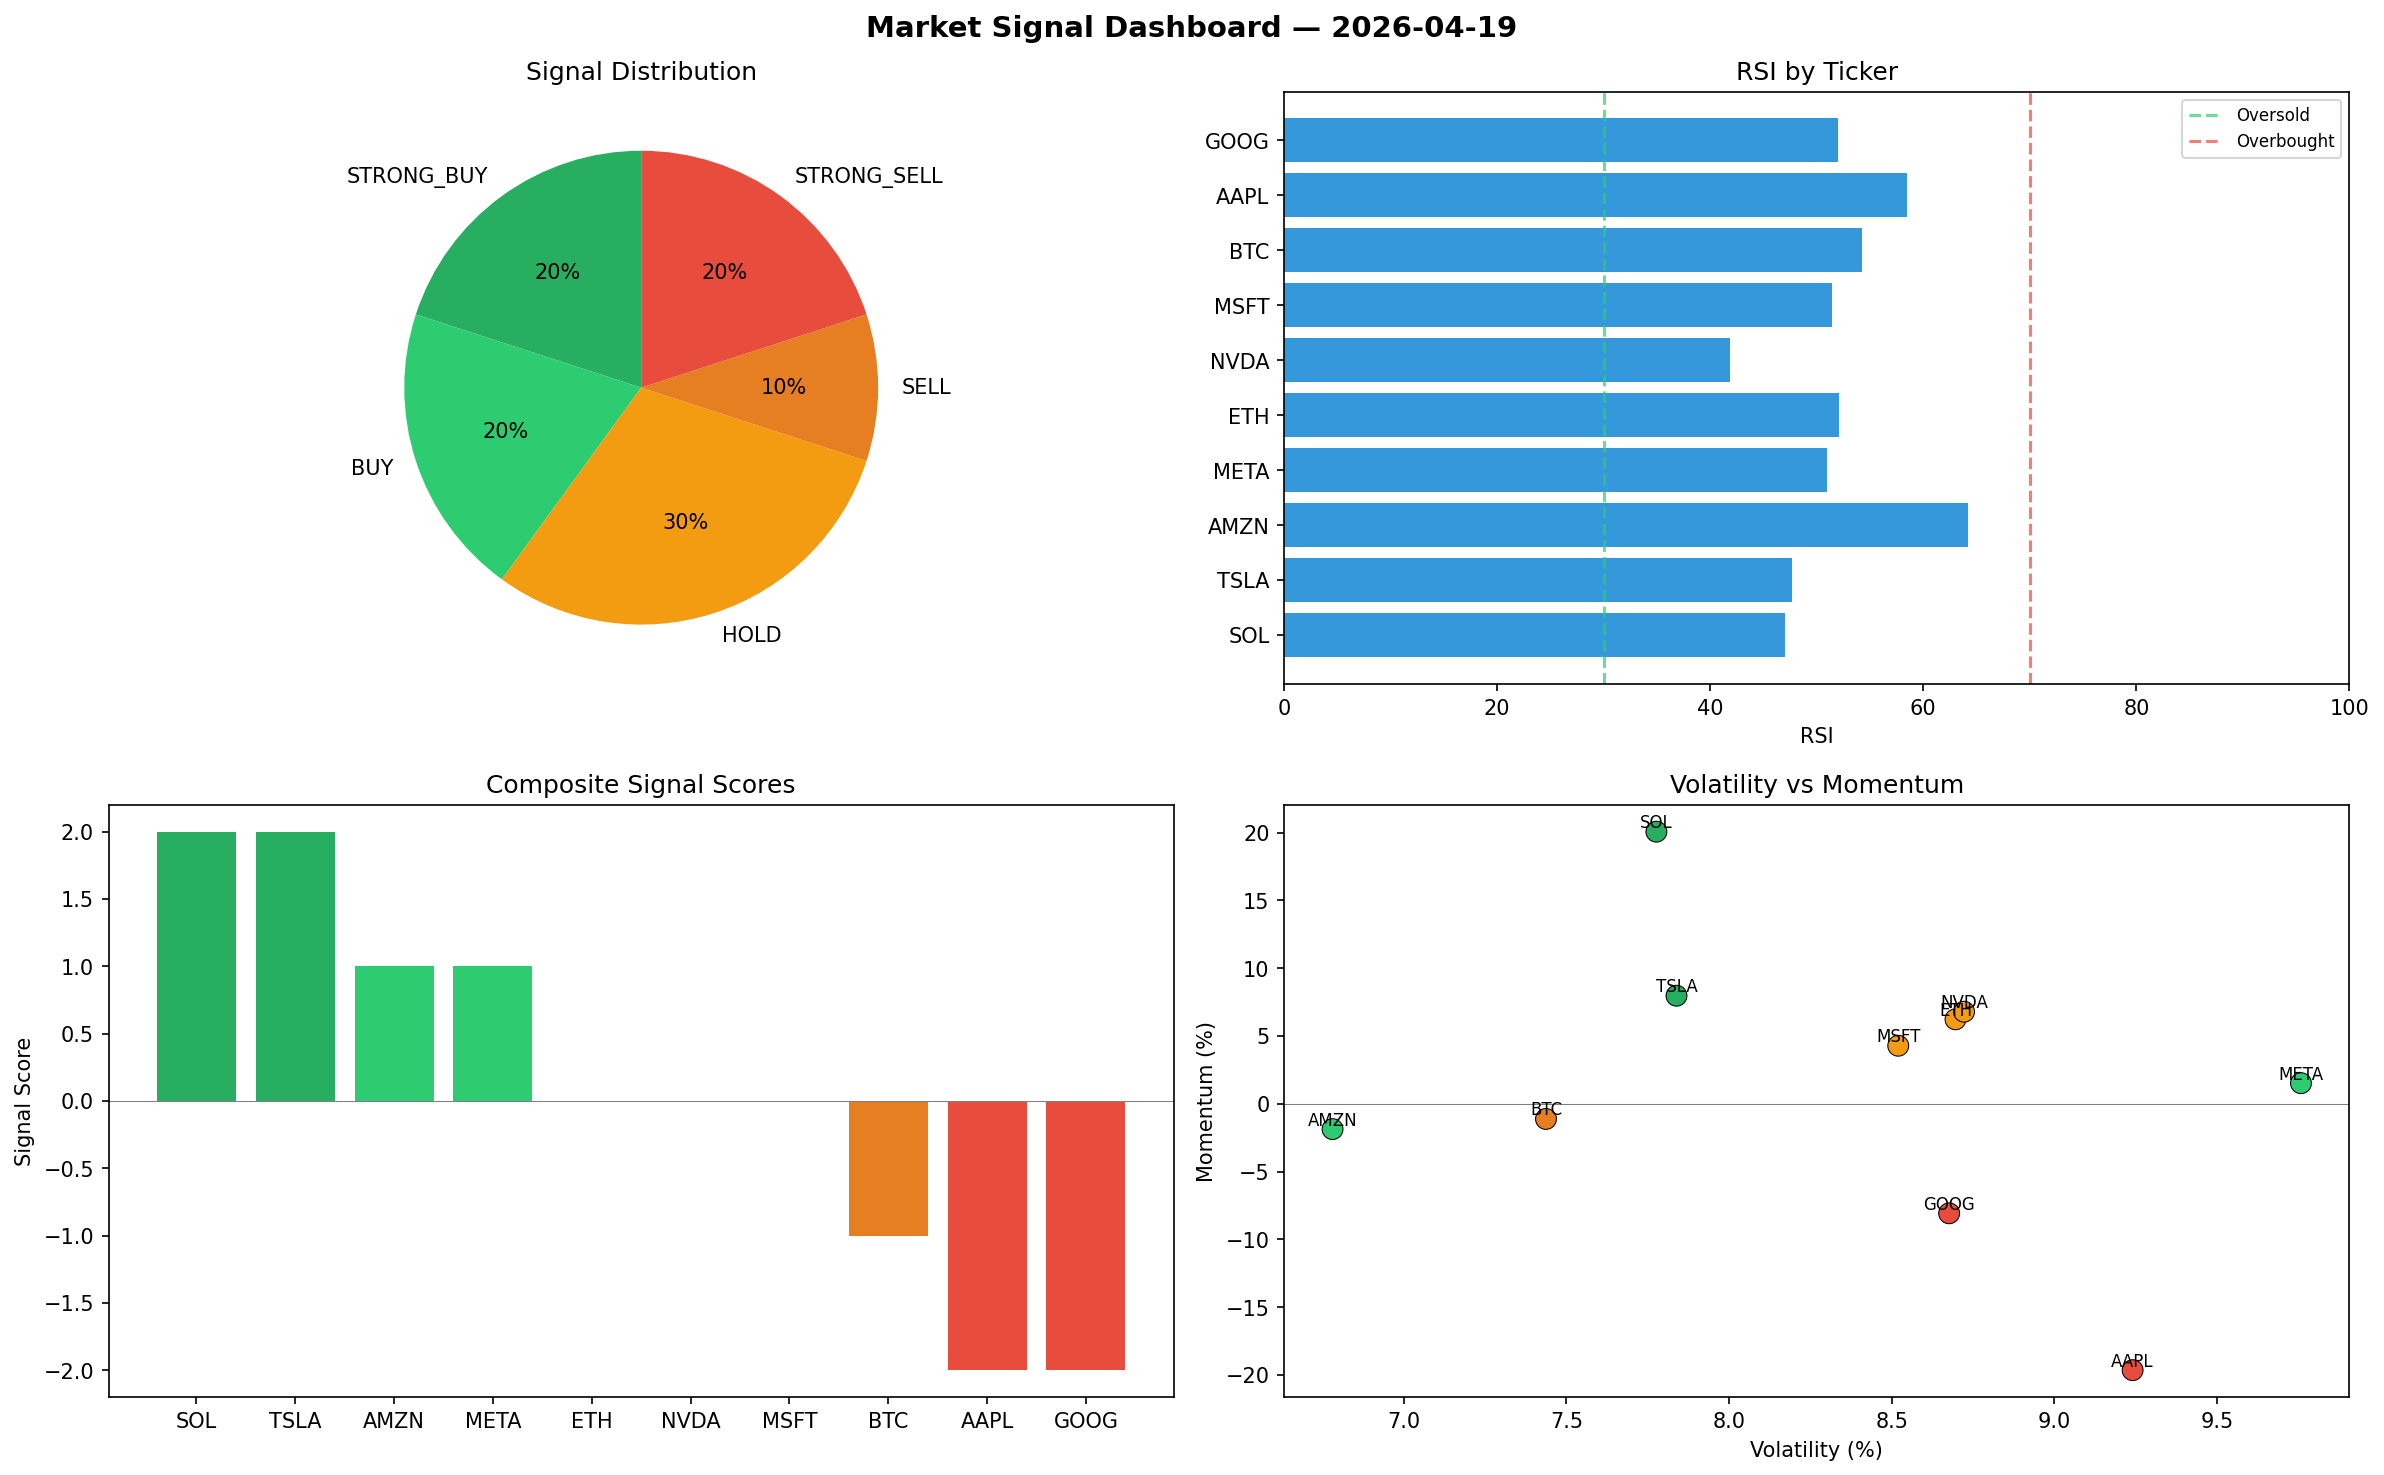
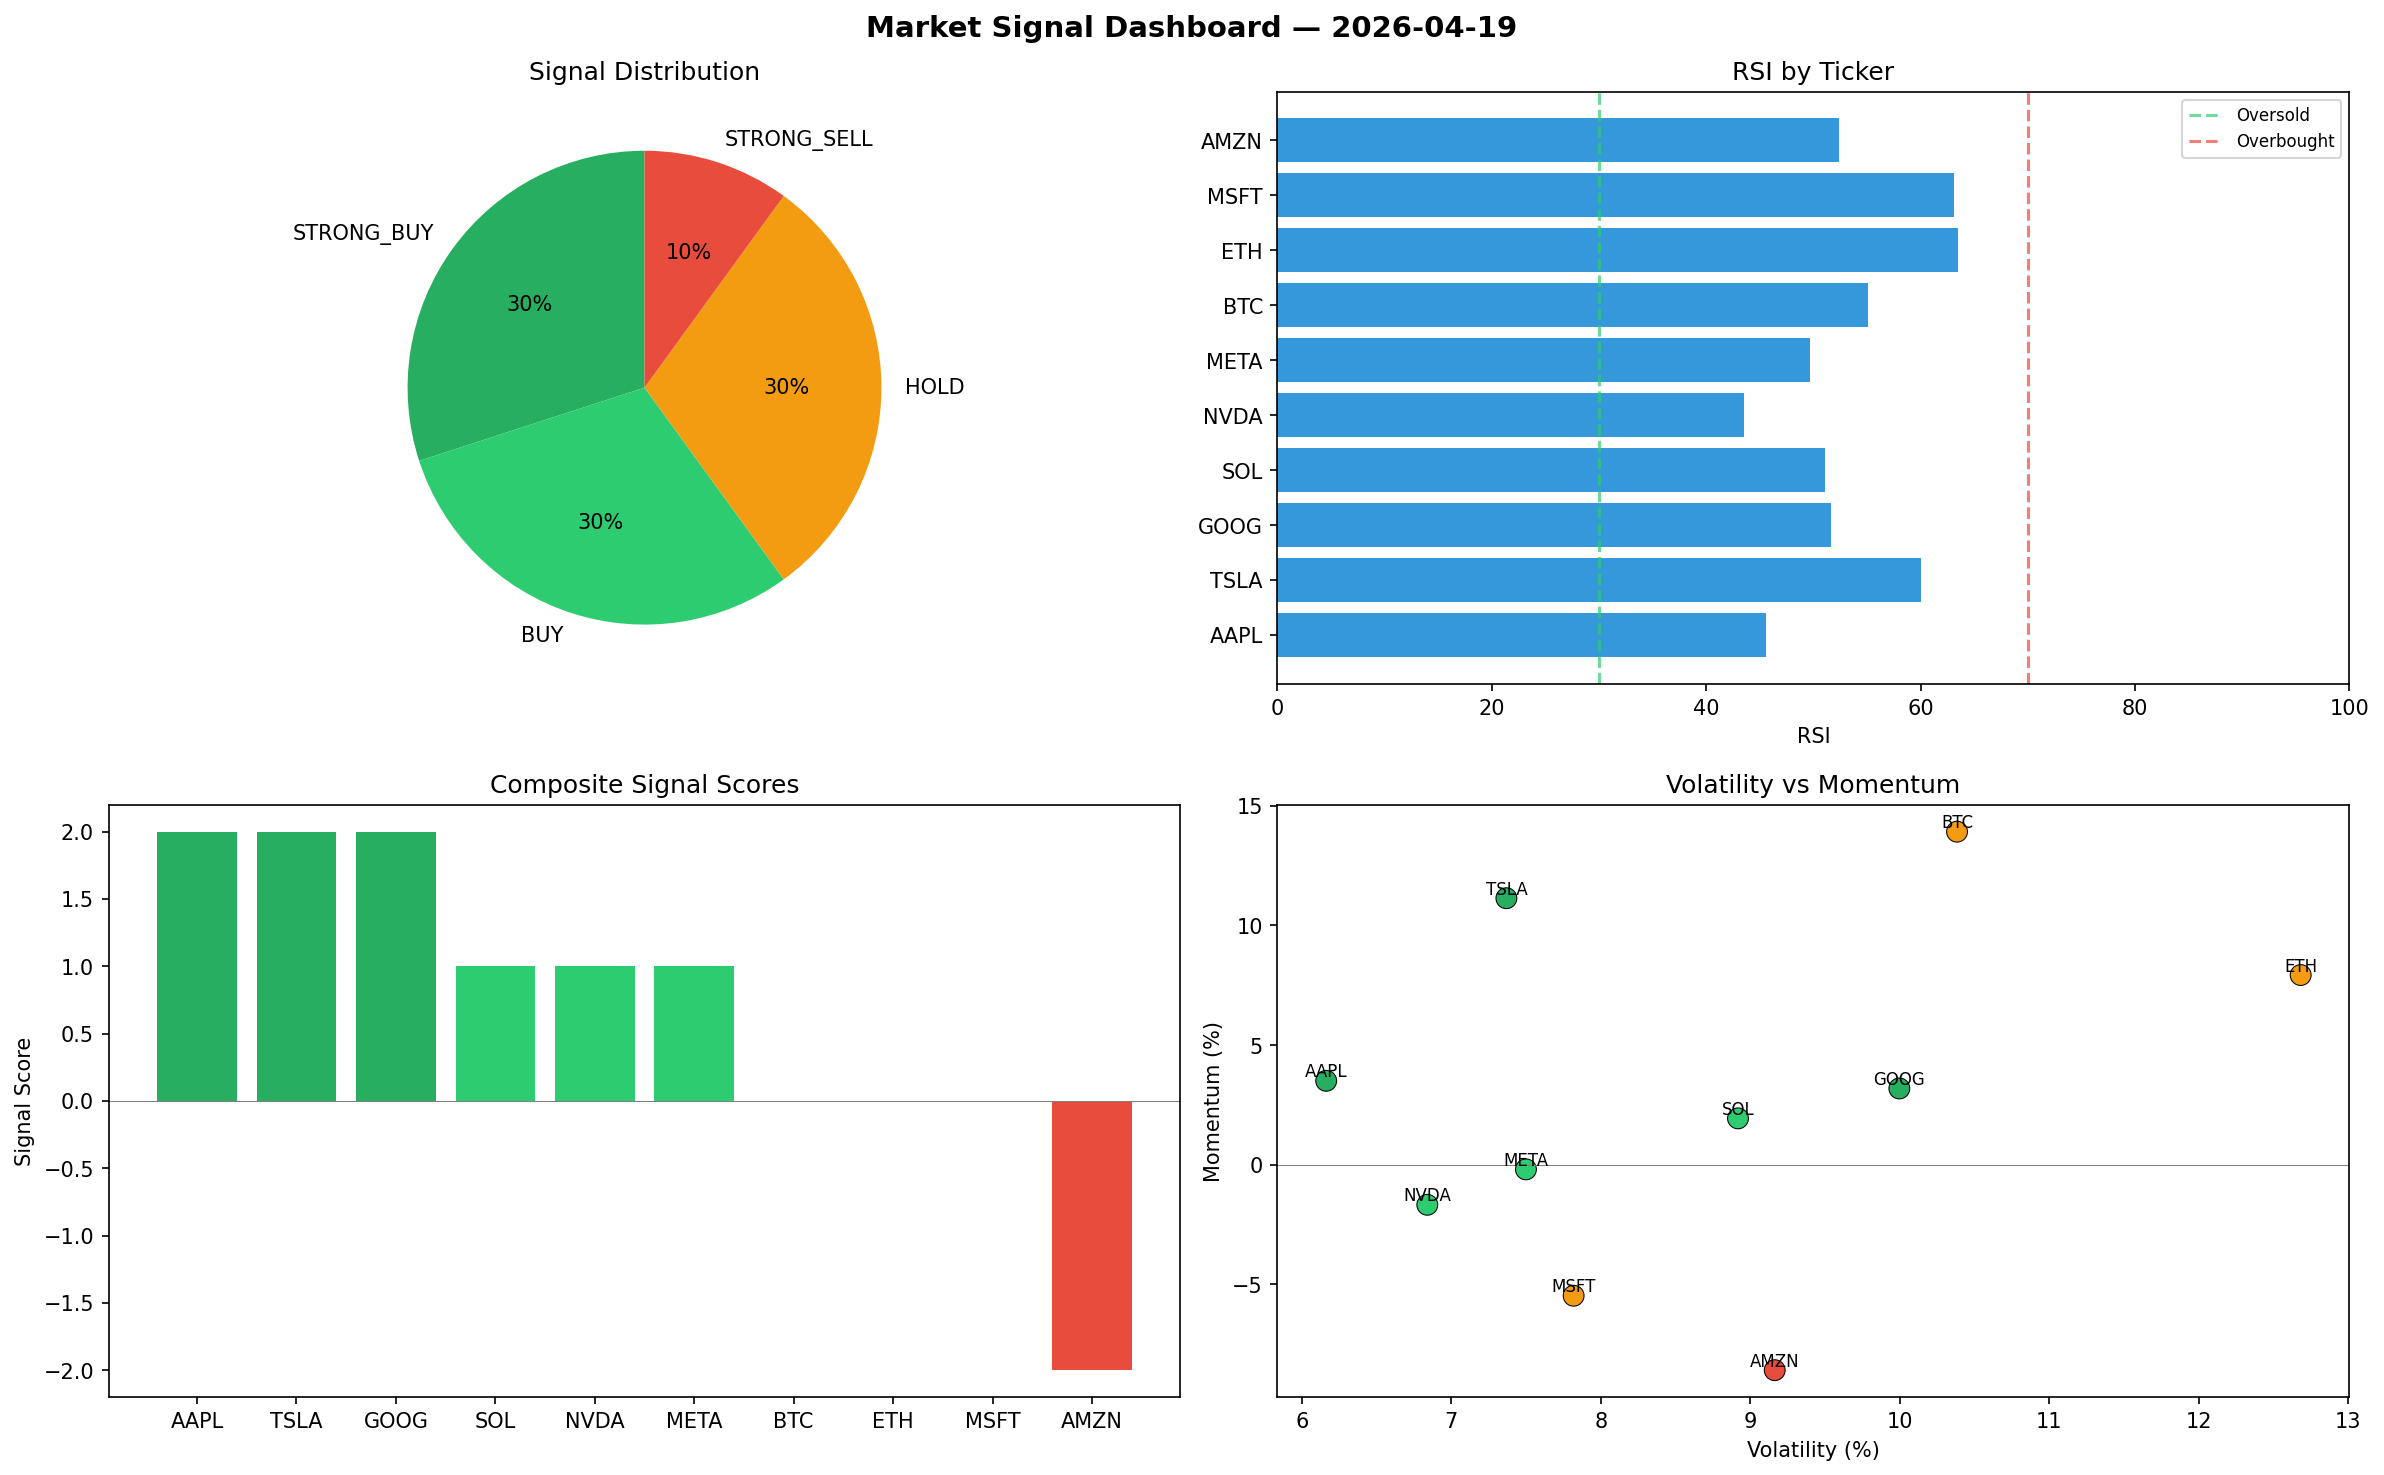
automated-bots: market signals 2026-04-19T15:06

diff --git a/logs/2026-04-19.md b/logs/2026-04-19.md
@@ -1,6 +1,6 @@
 # Market Signal Report — 2026-04-19
 
-**Run ID:** `2245e6da44` | **Buy:** 4 | **Sell:** 3 | **Hold:** 3
+**Run ID:** `0a799bc1db` | **Buy:** 6 | **Sell:** 1 | **Hold:** 3
 
 ![Dashboard](2026-04-19_dashboard.png)
 
@@ -8,28 +8,28 @@
 
 | Ticker | Price | Signal | Score | RSI | Momentum | Confidence |
 |--------|-------|--------|-------|-----|----------|------------|
-| SOL | $3656.99 | **STRONG_BUY** | 2 | 47.06 | 0.2007 | 0.5 |
-| TSLA | $3993.6 | **STRONG_BUY** | 2 | 47.65 | 0.0797 | 0.5 |
-| AMZN | $567.05 | **BUY** | 1 | 64.18 | -0.0187 | 0.25 |
-| META | $5056.74 | **BUY** | 1 | 50.95 | 0.0152 | 0.25 |
-| ETH | $3762.45 | **HOLD** | 0 | 52.05 | 0.0623 | 0.0 |
-| NVDA | $3382.82 | **HOLD** | 0 | 41.87 | 0.0679 | 0.0 |
-| MSFT | $4539.75 | **HOLD** | 0 | 51.44 | 0.0428 | 0.0 |
-| BTC | $1614.44 | **SELL** | -1 | 54.27 | -0.0112 | 0.25 |
-| AAPL | $4355.59 | **STRONG_SELL** | -2 | 58.45 | -0.1965 | 0.5 |
-| GOOG | $4187.38 | **STRONG_SELL** | -2 | 52.0 | -0.0808 | 0.5 |
+| AAPL | $4505.28 | **STRONG_BUY** | 2 | 45.59 | 0.0351 | 0.5 |
+| TSLA | $1085.82 | **STRONG_BUY** | 2 | 60.06 | 0.1114 | 0.5 |
+| GOOG | $817.35 | **STRONG_BUY** | 2 | 51.65 | 0.0319 | 0.5 |
+| SOL | $1982.74 | **BUY** | 1 | 51.06 | 0.0194 | 0.25 |
+| NVDA | $5118.21 | **BUY** | 1 | 43.5 | -0.0167 | 0.25 |
+| META | $1622.4 | **BUY** | 1 | 49.65 | -0.0019 | 0.25 |
+| BTC | $1634.83 | **HOLD** | 0 | 55.08 | 0.1392 | 0.0 |
+| ETH | $709.17 | **HOLD** | 0 | 63.52 | 0.0793 | 0.0 |
+| MSFT | $33.84 | **HOLD** | 0 | 63.15 | -0.0547 | 0.0 |
+| AMZN | $2848.12 | **STRONG_SELL** | -2 | 52.35 | -0.0858 | 0.5 |
 
 ## Delta vs Yesterday
 
 | Ticker | Today | Yesterday | Price Change | Signal Changed |
 |--------|-------|-----------|-------------|----------------|
-| SOL | STRONG_BUY | HOLD | 📉 -4.15% | ⚠ YES |
-| TSLA | STRONG_BUY | SELL | 📈 911.58% | ⚠ YES |
-| AMZN | BUY | STRONG_BUY | 📉 -85.76% | ⚠ YES |
-| META | BUY | HOLD | 📈 100.74% | ⚠ YES |
-| ETH | HOLD | HOLD | 📉 -9.72% | — |
-| NVDA | HOLD | STRONG_BUY | 📉 -25.26% | ⚠ YES |
-| MSFT | HOLD | SELL | 📈 4.29% | ⚠ YES |
-| BTC | SELL | STRONG_BUY | 📈 2823.12% | ⚠ YES |
-| AAPL | STRONG_SELL | HOLD | 📈 485.17% | ⚠ YES |
-| GOOG | STRONG_SELL | STRONG_SELL | 📈 74.34% | — |
+| AAPL | STRONG_BUY | HOLD | 📈 505.28% | ⚠ YES |
+| TSLA | STRONG_BUY | SELL | 📈 175.04% | ⚠ YES |
+| GOOG | STRONG_BUY | STRONG_SELL | 📉 -65.97% | ⚠ YES |
+| SOL | BUY | HOLD | 📉 -48.03% | ⚠ YES |
+| NVDA | BUY | STRONG_BUY | 📈 13.08% | ⚠ YES |
+| META | BUY | HOLD | 📉 -35.59% | ⚠ YES |
+| BTC | HOLD | STRONG_BUY | 📈 2860.04% | ⚠ YES |
+| ETH | HOLD | HOLD | 📉 -82.98% | — |
+| MSFT | HOLD | SELL | 📉 -99.22% | ⚠ YES |
+| AMZN | STRONG_SELL | STRONG_BUY | 📉 -28.5% | ⚠ YES |
